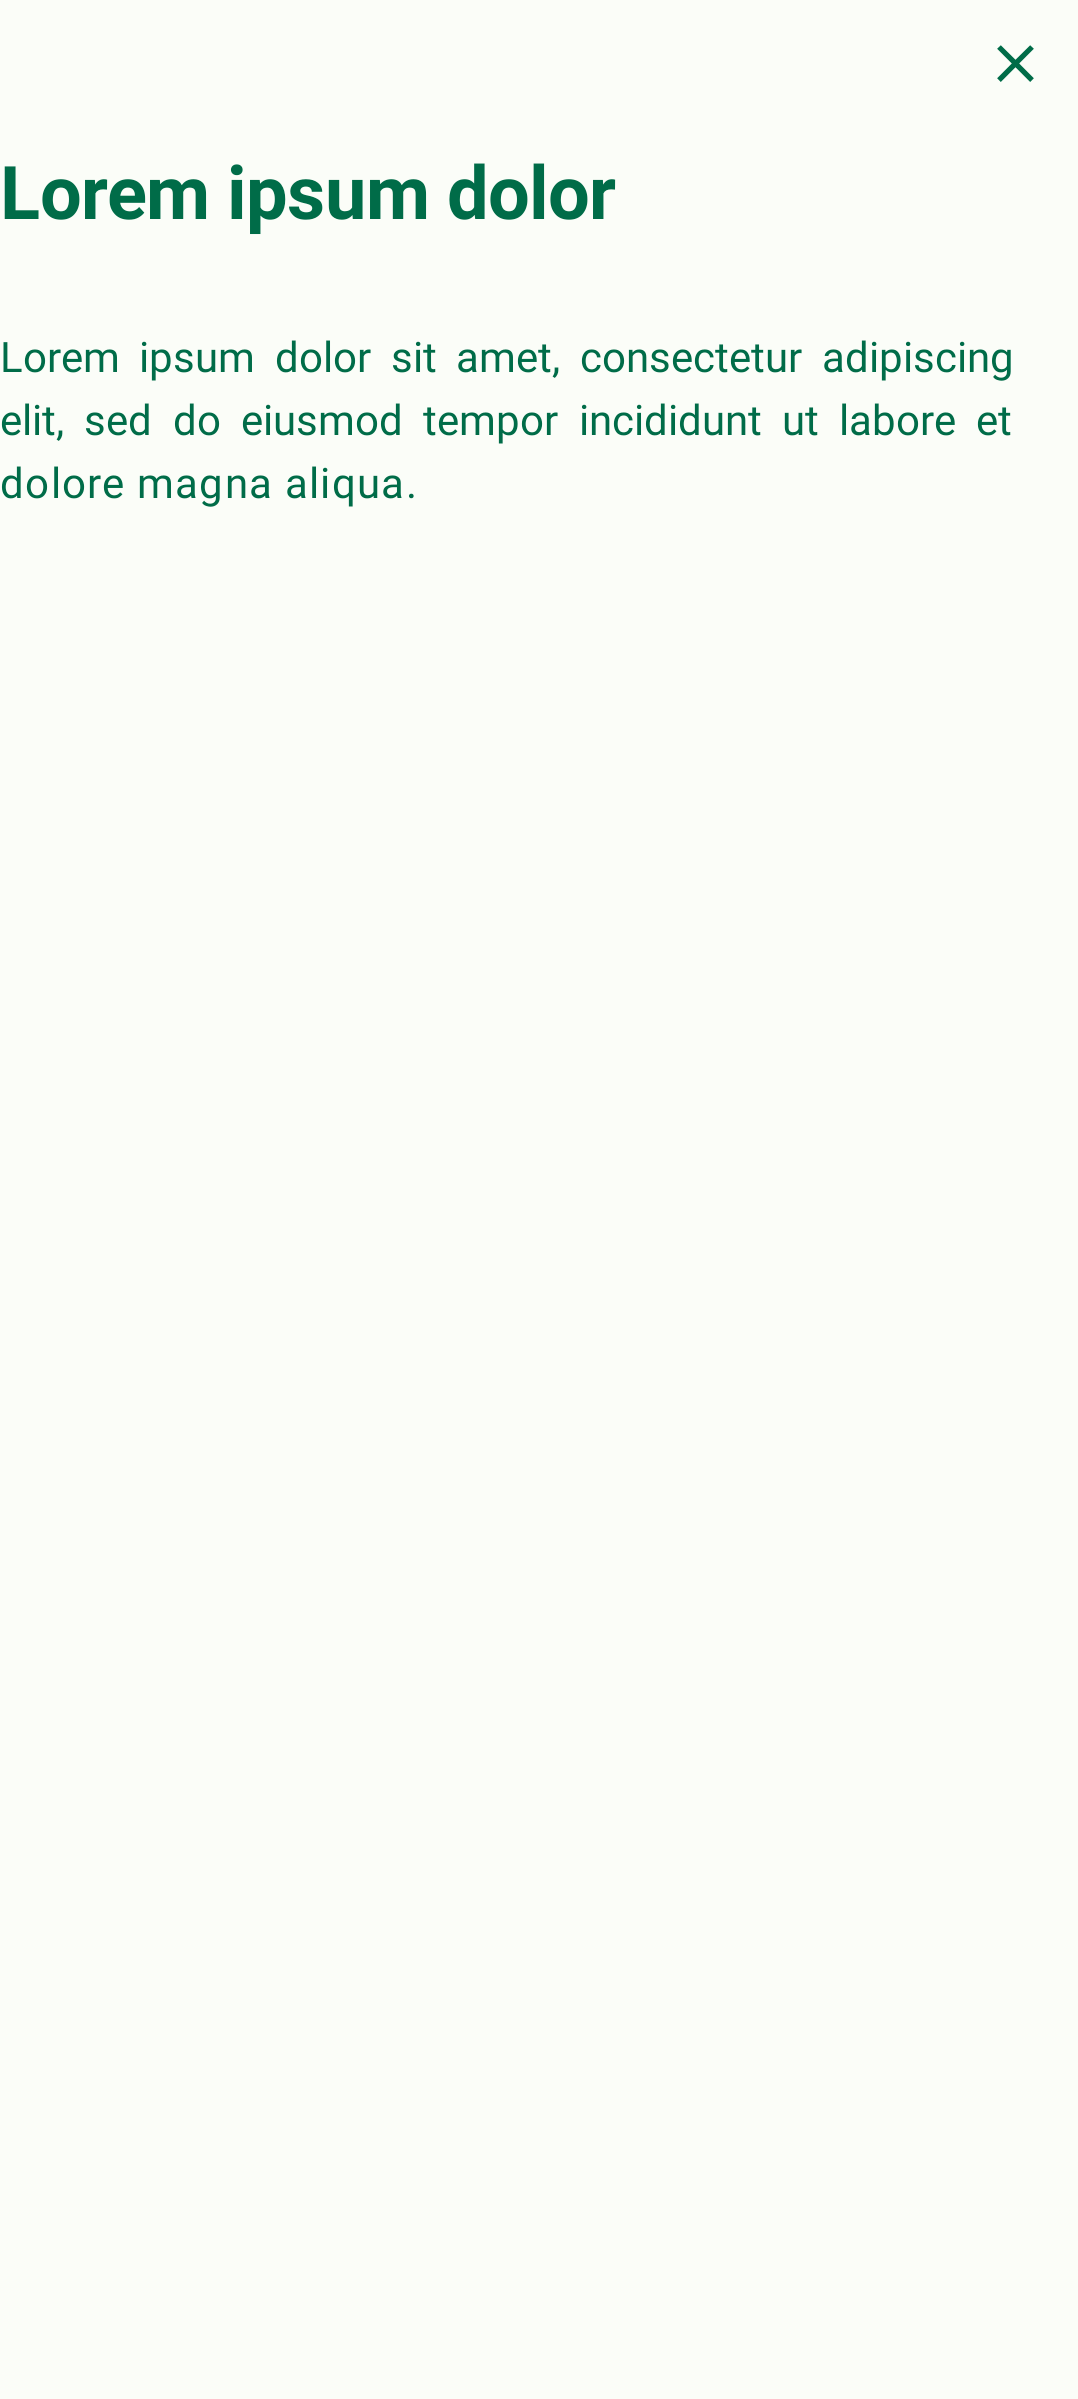
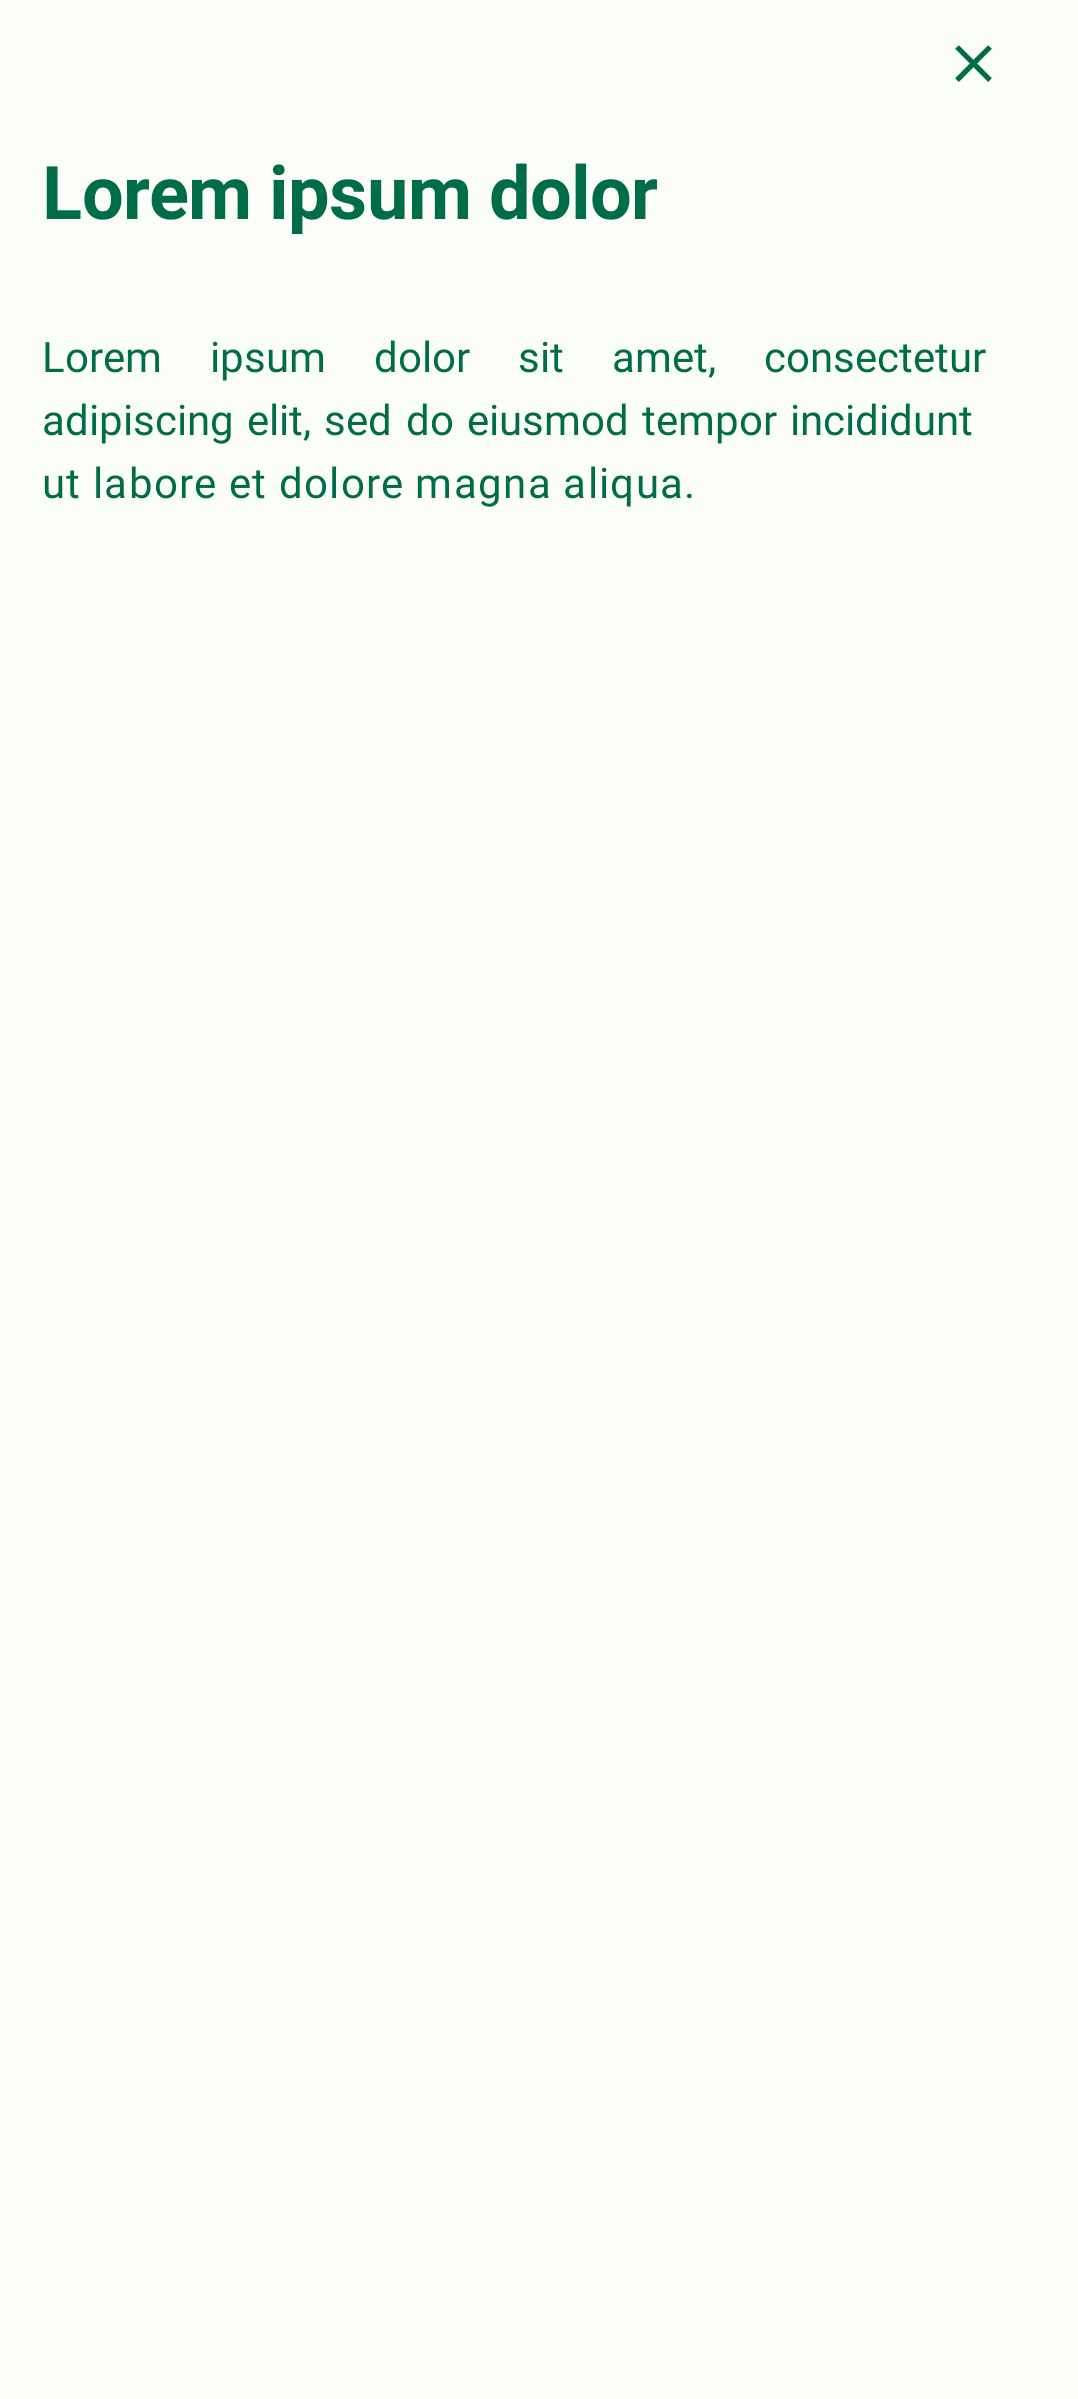
Merge pull request #177 from alex-amenos/feature/android_17
[FEATURE] Android 17 (API 37) Migration

Pull request: [FEATURE] Android 17 (API 37) Migration
This PR/update migrates the project to fully target Android 17 (API 37), ensuring compatibility with the latest platform behavior changes while maintaining a stable build and test pipeline.

## 🛠️ Changes Implemented

### 1. Target SDK Update
* Bumped `TARGET_SDK_VERSION` from `36` to `37` in `buildSrc/src/main/java/AppConfig.kt`. (`COMPILE_SDK_VERSION` was already correctly set to `37`).

### 2. Testing Framework Adjustments (Robolectric)
* Addressed `maxSdkVersion` compatibility issues with Robolectric and API 37 by configuring Robolectric to run tests against SDK 36. 
* Updated `buildSystem/gradle/common-android-base.gradle` to globally inject `it.systemProperty("robolectric.enabledSdks", "36")` into all unit tests.
* Added a global `robolectric.properties` file in `shared/testing/src/main/resources/` with the configuration `sdk=36`. This ensures Compose and Roborazzi screenshot tests in all dependent feature modules fallback to `sdk=36` gracefully.

### 3. Android 17 Behavior Changes Verification
* **Large Screen Constraints:** Verified the app does not programmatically lock `screenOrientation`, fully complying with Android 17's mandatory resizability rules for `sw>=600dp`.
* **Network Security:** Confirmed there are no usages of the deprecated `usesCleartextTraffic` attribute.
* **Edge-to-Edge:** Validated that `RootActivity.kt` is already correctly invoking `enableEdgeToEdge()` per recent platform UI mandates.
[…]

Changed region(s): [[0.0, 0.1234, 0.949, 0.2159], [0.0, 0.0617, 0.6122, 0.0925], [0.8878, 0.0, 0.949, 0.0308]]

diff --git a/buildSrc/src/main/java/AppConfig.kt b/buildSrc/src/main/java/AppConfig.kt
@@ -5,5 +5,5 @@ object AppConfig {
     const val APP_PACKAGE_NAME_DEBUG = "$APPLICATION_ID.debug"
     const val COMPILE_SDK_VERSION = 37
     const val MIN_SDK_VERSION = 26
-    const val TARGET_SDK_VERSION = 36
+    const val TARGET_SDK_VERSION = 37
 }